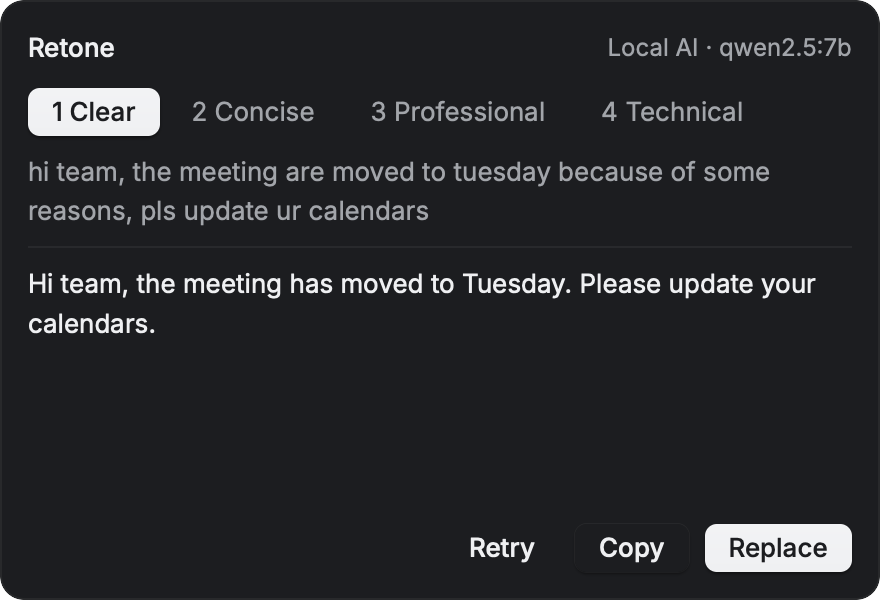
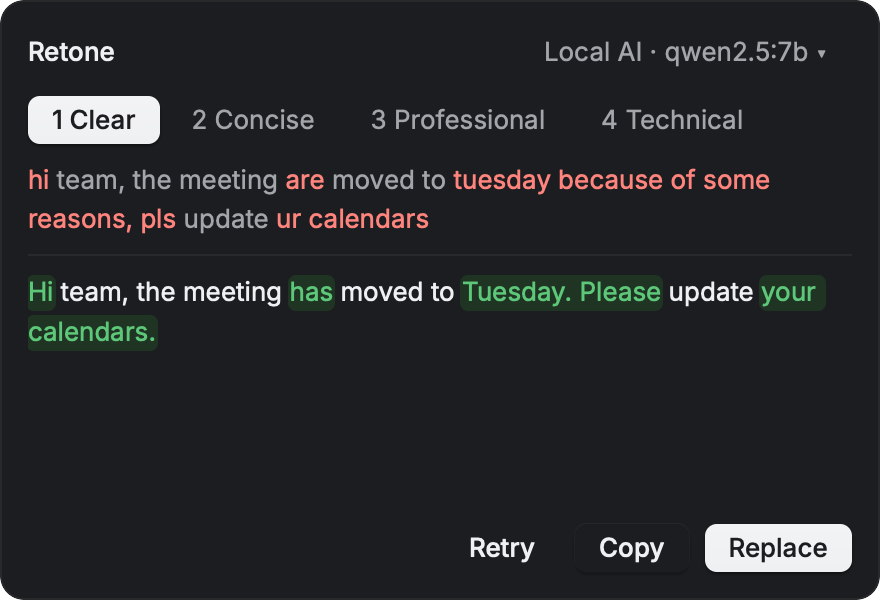
feat(popup): highlight changed words in the preview
A word-level LCS (src/diff.rs) marks removed words red in the original
line and added words on a green background in the rewrite. Copy and
Replace still use the plain rewrite.

Amp-Thread-ID: https://ampcode.com/threads/T-01a2024a-3a6b-72bc-9042-23c16e776008

diff --git a/src/diff.rs b/src/diff.rs
@@ -1,0 +1,121 @@
+//! Word-level diff between the original and the rewrite, for the preview highlights.
+//!
+//! A longest common subsequence over words: the words outside it are removed (original) or
+//! added (rewrite). Plain O(n·m) is enough, because the input is at most 2,000 characters.
+
+#![forbid(unsafe_code)]
+
+use std::ops::Range;
+
+/// Above this many table cells (about 16 MB), the preview shows no highlights instead.
+const MAX_CELLS: usize = 4_000_000;
+
+/// Byte ranges of the removed words in `old` and the added words in `new`. Neighbor words
+/// that both changed become one range, so the highlight also covers the space between them.
+pub fn changed_words(old: &str, new: &str) -> (Vec<Range<usize>>, Vec<Range<usize>>) {
+    let a = words(old);
+    let b = words(new);
+    if a.len().saturating_mul(b.len()) > MAX_CELLS {
+        return (Vec::new(), Vec::new());
+    }
+    let same = |i: usize, j: usize| old[a[i].clone()] == new[b[j].clone()];
+    // lcs[i][j]: the length of the longest common subsequence of a[i..] and b[j..].
+    let width = b.len() + 1;
+    let mut lcs = vec![0u32; (a.len() + 1) * width];
+    for i in (0..a.len()).rev() {
+        for j in (0..b.len()).rev() {
+            lcs[i * width + j] = if same(i, j) {
+                lcs[(i + 1) * width + j + 1] + 1
+            } else {
+                lcs[(i + 1) * width + j].max(lcs[i * width + j + 1])
+            };
+        }
+    }
+    let (mut kept_a, mut kept_b) = (vec![false; a.len()], vec![false; b.len()]);
+    let (mut i, mut j) = (0, 0);
+    while i < a.len() && j < b.len() {
+        if same(i, j) {
+            kept_a[i] = true;
+            kept_b[j] = true;
+            i += 1;
+            j += 1;
+        } else if lcs[(i + 1) * width + j] >= lcs[i * width + j + 1] {
+            i += 1;
+        } else {
+            j += 1;
+        }
+    }
+    (merged(&a, &kept_a), merged(&b, &kept_b))
+}
+
+/// Byte ranges of the runs of non-white-space characters.
+fn words(text: &str) -> Vec<Range<usize>> {
+    let mut words = Vec::new();
+    let mut start = None;
+    for (at, c) in text.char_indices() {
+        match (c.is_whitespace(), start) {
+            (false, None) => start = Some(at),
+            (true, Some(from)) => {
+                words.push(from..at);
+                start = None;
+            }
+            _ => {}
+        }
+    }
+    if let Some(from) = start {
+        words.push(from..text.len());
+    }
+    words
+}
+
+fn merged(words: &[Range<usize>], kept: &[bool]) -> Vec<Range<usize>> {
+    let mut ranges: Vec<Range<usize>> = Vec::new();
+    let mut previous_changed = false;
+    for (word, kept) in words.iter().zip(kept) {
+        if *kept {
+            previous_changed = false;
+            continue;
+        }
+        match ranges.last_mut() {
+            Some(last) if previous_changed => last.end = word.end,
+            _ => ranges.push(word.clone()),
+        }
+        previous_changed = true;
+    }
+    ranges
+}
+
+#[cfg(test)]
+// The expected values are lists of ranges, not a range to expand.
+#[allow(clippy::single_range_in_vec_init)]
+mod tests {
+    use super::changed_words;
+
+    #[test]
+    fn a_replaced_word_is_marked_on_both_sides() {
+        assert_eq!(changed_words("the meeting are moved", "the meeting has moved"), (vec![12..15], vec![12..15]));
+    }
+
+    #[test]
+    fn neighbor_changes_become_one_range_with_the_space_between() {
+        // "x y" is one range (2..5); unchanged "c" splits it from nothing else.
+        assert_eq!(changed_words("a b c", "a x y c"), (vec![2..3], vec![2..5]));
+    }
+
+    #[test]
+    fn ranges_are_byte_offsets_with_multibyte_text() {
+        // "café is " is 9 bytes (é is 2), so "très" (5 bytes) is 9..14.
+        assert_eq!(changed_words("café is très bon", "café is bon"), (vec![9..14], vec![]));
+    }
+
+    #[test]
+    fn a_moved_word_keeps_the_longer_common_run() {
+        // Matching the first "x" greedily would mark "a b" instead.
+        assert_eq!(changed_words("x a b", "a b x"), (vec![0..1], vec![4..5]));
+    }
+
+    #[test]
+    fn identical_text_and_white_space_changes_mark_nothing() {
+        assert_eq!(changed_words("same text", "same   text\n"), (vec![], vec![]));
+    }
+}

diff --git a/src/popup/view.rs b/src/popup/view.rs
@@ -5,7 +5,7 @@ use crate::config::Config;
 use crate::flow::{Event, Notice, Phase, State};
 use crate::provider::consent;
 use crate::styles::{PRESETS, Style};
-use rune::{Cx, El, ScrollSpec, Tx, col, el, row, spacer, text};
+use rune::{Cx, El, ScrollSpec, Span, Tx, col, el, row, spacer, text};
 use rune_kit::{Button, ButtonVariant, Kit, List, ListItem, Spinner};
 
 /// The styles the picker offers, in key order 1–5: the presets, then Custom when it is set.
@@ -198,9 +198,17 @@ fn consent_body(p: &Popup, k: &Kit) -> El {
 
 fn preview_body(p: &Popup, k: &Kit, original: &str, style: &Style, phase: &Phase, can_replace: bool) -> El {
     let picker = style_picker(p, k, style);
+    // Removed words in red on the original, added words on a green background in the rewrite.
+    let (removed, added) = match phase {
+        Phase::Ready(rewrite) => crate::diff::changed_words(original, rewrite),
+        _ => (Vec::new(), Vec::new()),
+    };
+    let removed: Vec<Span> = removed.into_iter().map(|r| Span::new(r.start, r.end).color(k.c.danger.fg)).collect();
+    let added: Vec<Span> =
+        added.into_iter().map(|r| Span::new(r.start, r.end).bg(k.c.success.bg, 1.0).color(k.c.success.fg)).collect();
     let (result, ready) = match phase {
         Phase::Loading => (loading(k, "Rewriting…"), false),
-        Phase::Ready(rewrite) => (scrolling(k, "rewrite", rewrite, k.c.text_strong), true),
+        Phase::Ready(rewrite) => (scrolling(k, "rewrite", rewrite, added), true),
         Phase::Failed(error) => (message(k, "error", "Rewrite failed", error, k.c.danger.fg), false),
     };
     let mut notes = Vec::new();
@@ -231,7 +239,14 @@ fn preview_body(p: &Popup, k: &Kit, original: &str, style: &Style, phase: &Phase
         .min_h(0.0)
         .gap(8.0)
         .child(picker)
-        .child(text(original.to_string()).key("original").font(k.ty.text_small).color(k.c.text_muted).max_lines(2))
+        .child(
+            text(original.to_string())
+                .key("original")
+                .font(k.ty.text_small)
+                .color(k.c.text_muted)
+                .max_lines(2)
+                .spans(removed),
+        )
         .child(el().w_full().h(1.0).fill(k.c.border_weak))
         .child(result);
     for note in notes {
@@ -240,14 +255,14 @@ fn preview_body(p: &Popup, k: &Kit, original: &str, style: &Style, phase: &Phase
     body.child(buttons(actions))
 }
 
-fn scrolling(k: &Kit, key: &str, value: &str, color: rune::Color) -> El {
+fn scrolling(k: &Kit, key: &str, value: &str, spans: Vec<Span>) -> El {
     col()
         .key(key.to_string())
         .w_full()
         .grow(1.0)
         .min_h(0.0)
         .scroll(ScrollSpec { stick_bottom: false })
-        .child(text(value.to_string()).font(k.ty.ui).color(color).wrap().selectable(true))
+        .child(text(value.to_string()).font(k.ty.ui).color(k.c.text_strong).wrap().selectable(true).spans(spans))
 }
 
 fn style_picker(p: &Popup, k: &Kit, current: &Style) -> El {

diff --git a/src/main.rs b/src/main.rs
@@ -9,6 +9,7 @@ mod apply;
 #[cfg(target_os = "macos")]
 mod capture;
 mod config;
+mod diff;
 mod eval;
 mod flow;
 mod history_check;
